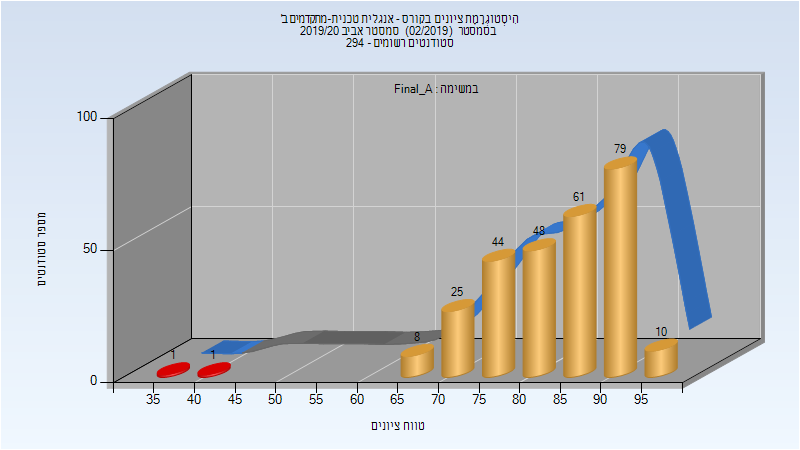
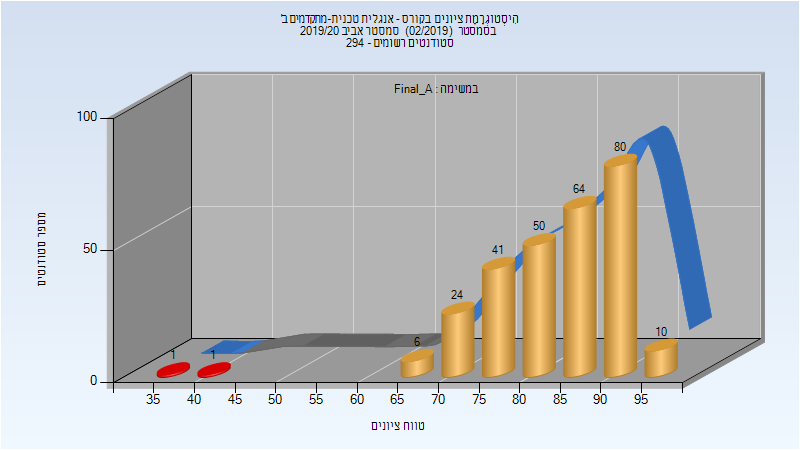
Deploy michael-maltsev/technion-histograms to github.com/michael-maltsev/technion-histograms.git:gh-pages

diff --git a/324033/index.html b/324033/index.html
@@ -1160,7 +1160,7 @@
 <td>99</td>
 <td>35.9</td>
 <td>98</td>
-<td>84.241</td>
+<td>84.587</td>
 <td>86</td>
 </tr>
 </tbody>

diff --git a/324033/README.md b/324033/README.md
@@ -372,5 +372,5 @@
 
 | סטודנטים | עברו/נכשלו | אחוז עוברים | ציון מינימלי | ציון מקסימלי | ממוצע | חציון |
 | ---- | ---- | ---- | ---- | ---- | ---- | ---- |
-| 277 | 275/2 | 99 | 35.9 | 98 | 84.241 | 86 |
+| 277 | 275/2 | 99 | 35.9 | 98 | 84.587 | 86 |
 
